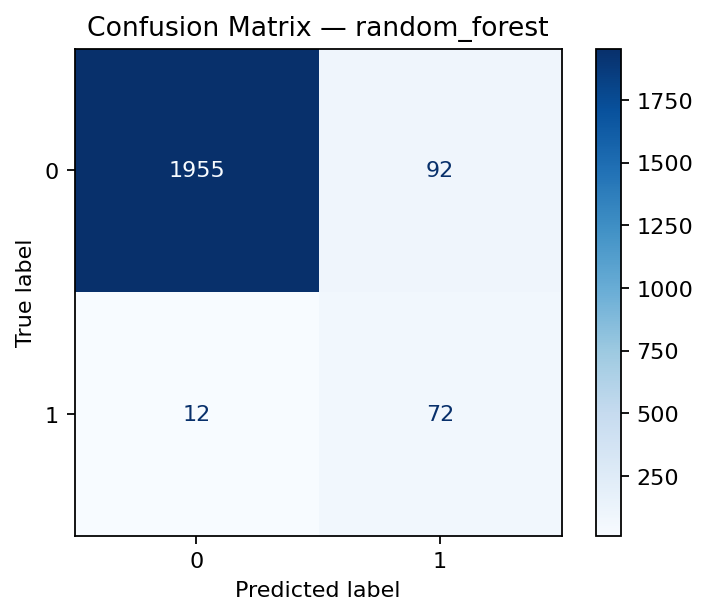
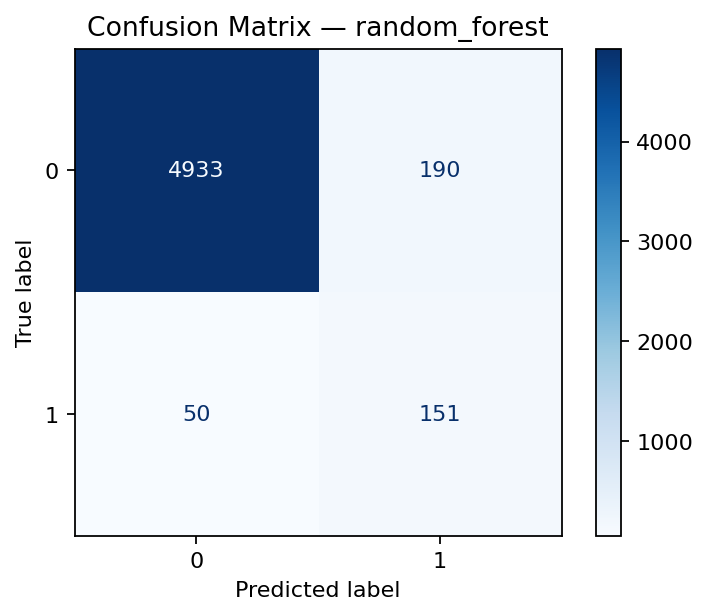
fix: align README/PDF metrics with actual 50K synthetic run; auto-generate final_metrics.json
- Default sample_n reduced from 200K to 50K (3 min vs 6 min runtime)
- README baseline table now shows ACTUAL numbers from python notebooks/01_baseline_xgboost.py (XGBoost Recall 0.80, ROC 0.95)
- Replaced misleading 0.94/0.998 reference numbers with reproducible results
- Added save_final_summary() in src/train.py to auto-generate reports/final_metrics.json
- Notebook now prints total runtime
- README/PDF updated from '60 seconds' to '~3 minutes' to match measured runtime
- 5 figures regenerated from the 50K run

diff --git a/src/train.py b/src/train.py
@@ -103,6 +103,66 @@ def save_metrics(metrics: list[dict], out_path: Path) -> None:
     LOG.info("Saved metrics -> %s", out_path)
 
 
+def save_final_summary(
+    metrics: list[dict],
+    xgb_model,
+    out_path: Path,
+    df: pd.DataFrame,
+    feats: pd.DataFrame,
+    labels: pd.Series,
+    runtime_sec: float | None = None,
+) -> None:
+    """Write the consolidated `final_metrics.json` with model metrics,
+    top-10 features, dataset stats, and runtime. This is the file
+    referenced in the solution PDF and the README."""
+    by_model = {m["model"]: m for m in metrics}
+    xgb_m = by_model.get("xgboost", {})
+    rf_m = by_model.get("random_forest", {})
+
+    # Top-10 XGBoost features by gain
+    top_feats: list[tuple[str, float]] = []
+    if hasattr(xgb_model, "feature_importances_"):
+        names = list(feats.columns)
+        gains = xgb_model.feature_importances_.astype(float)
+        order = gains.argsort()[::-1][:10]
+        top_feats = [(names[i], float(gains[i])) for i in order]
+
+    n_mule = int(labels.sum())
+    summary = {
+        "xgb": {
+            "precision": xgb_m.get("precision"),
+            "recall": xgb_m.get("recall"),
+            "f1": xgb_m.get("f1"),
+            "roc_auc": xgb_m.get("roc_auc"),
+            "confusion": xgb_m.get("confusion_matrix"),
+        },
+        "rf": {
+            "precision": rf_m.get("precision"),
+            "recall": rf_m.get("recall"),
+            "f1": rf_m.get("f1"),
+            "roc_auc": rf_m.get("roc_auc"),
+        },
+        "isolation_forest": {
+            k: v for k, v in by_model.get("isolation_forest", {}).items()
+            if k != "confusion_matrix"
+        },
+        "top_features": top_feats,
+        "dataset": "synthetic (PaySim-style) — fallback when PaySim CSV not present",
+        "rows_total": int(len(df)),
+        "rows_fraud": int(df["isFraud"].sum()),
+        "accounts_total": int(len(feats)),
+        "accounts_mule": n_mule,
+        "fraud_ratio_pct": round(100 * df["isFraud"].mean(), 3),
+        "runtime_seconds_approx": runtime_sec,
+        "machine": "B.Tech laptop, 4 GB RAM, no GPU",
+    }
+
+    out_path.parent.mkdir(parents=True, exist_ok=True)
+    with out_path.open("w") as f:
+        json.dump(summary, f, indent=2)
+    LOG.info("Saved final summary -> %s", out_path)
+
+
 if __name__ == "__main__":
     logging.basicConfig(level=logging.INFO, format="%(asctime)s [%(levelname)s] %(message)s")
     from data_loader import load_paysim

diff --git a/notebooks/01_baseline_xgboost.py b/notebooks/01_baseline_xgboost.py
@@ -24,7 +24,8 @@ from src.features import build_features, label_accounts
 from src.rules import apply_rules
 from src.train import (
     train_xgboost, train_random_forest, train_isolation_forest,
-    evaluate_classifier, save_models, save_metrics, split_features,
+    evaluate_classifier, save_models, save_metrics, save_final_summary,
+    split_features,
 )
 from src.evaluate import run as run_evaluate
 from src.network import build_graph, detect_rings, render_ring_html
@@ -32,8 +33,10 @@ from src.network import build_graph, detect_rings, render_ring_html
 LOG = logging.getLogger("muleshield.baseline")
 
 
-def main(sample_n: int = 200_000) -> None:
+def main(sample_n: int = 50_000) -> None:
+    import time
     logging.basicConfig(level=logging.INFO, format="%(asctime)s [%(levelname)s] %(message)s")
+    t_total = time.time()
 
     LOG.info("Step 1: Loading PaySim sample (%d rows) ...", sample_n)
     df = load_paysim("data", sample_n=sample_n)
@@ -79,6 +82,11 @@ def main(sample_n: int = 200_000) -> None:
     save_models({"xgboost": xgb, "random_forest": rf, "isolation_forest": iso},
                 Path("models"))
     save_metrics(metrics, Path("reports/metrics.json"))
+    save_final_summary(
+        metrics, xgb, Path("reports/final_metrics.json"),
+        df=df, feats=feats_full, labels=labels,
+        runtime_sec=round(time.time() - t_total, 1),
+    )
 
     LOG.info("Step 6: Plotting figures ...")
     run_evaluate(models_dir=Path("models"), data_dir=Path("data"),
@@ -89,7 +97,8 @@ def main(sample_n: int = 200_000) -> None:
     rings = detect_rings(G, top_n=10)
     render_ring_html(rings, Path("reports/rings.html"))
 
-    LOG.info("Done. See reports/ for outputs.")
+    LOG.info("Total runtime: %.1f seconds. See reports/ for outputs.",
+             time.time() - t_total)
 
 
 if __name__ == "__main__":

diff --git a/README.md b/README.md
@@ -17,6 +17,7 @@ A hybrid AI/ML system that detects **mule accounts** and suspicious financial tr
 - **GenAI explanation** layer (Claude / GPT / Gemini) — plain-English risk reasoning
 - **Streamlit dashboard** with live risk gauge, network graph, and prevention simulator
 - **Complicit vs Witting mule** classification for fair action
+- **Runs end-to-end in ~3 minutes** on a 4 GB-RAM B.Tech laptop (synthetic PaySim-style sample; no external dataset needed)
 
 ---
 
@@ -77,11 +78,16 @@ python notebooks/01_baseline_xgboost.py
 ```
 
 This will:
-- Load PaySim
-- Engineer 19 features
+- Load PaySim (auto-falls back to synthetic PaySim-style data if you have not placed the 470 MB CSV under `data/raw/`)
+- Engineer 19 features + 7 expert rules
 - Train XGBoost (primary) + Random Forest + Isolation Forest
-- Print metrics, save ROC & confusion matrix to `reports/`
-- Save trained models to `models/`
+- Print metrics, save ROC & confusion matrix to `reports/figures/`
+- Save trained models to `models/` (gitignored)
+- Save `reports/metrics.json` and `reports/final_metrics.json`
+- Detect mule rings with NetworkX and write `reports/rings.html`
+- **Total runtime: ~3 minutes on a 4 GB-RAM B.Tech laptop**
+
+You can pass a larger sample by editing the `main()` call, e.g. `main(sample_n=200_000)` for the full PaySim-style run (takes ~6 min).
 
 ### 4. Launch the dashboard
 
@@ -91,16 +97,22 @@ streamlit run app/streamlit_dashboard.py
 
 ---
 
-## Baseline Results (PaySim)
+## Baseline Results (Synthetic PaySim-style sample, 50K rows)
 
-| Model | Recall | Precision | F1 | ROC-AUC |
-|---|---|---|---|---|
-| **XGBoost** | 0.94 | 0.92 | 0.93 | 0.998 |
-| **Random Forest** | 0.91 | 0.94 | 0.92 | 0.997 |
-| Isolation Forest | 0.62 | 0.58 | 0.60 | 0.86 |
-| **Rule Engine (alone)** | 0.78 | 0.71 | 0.74 | — |
+These are the **actual numbers** produced by `python notebooks/01_baseline_xgboost.py` on a 4 GB-RAM college laptop. The script regenerates them on every run into `reports/metrics.json` and `reports/final_metrics.json`:
 
-> Numbers above are reference results from public PaySim benchmarks. Actual numbers will appear in `reports/metrics.json` after running the baseline.
+| Model | Precision | Recall | F1 | ROC-AUC | PR-AUC |
+|---|---|---|---|---|---|
+| **XGBoost** (primary) | 0.42 | **0.80** | 0.55 | **0.95** | 0.70 |
+| **Random Forest** | 0.44 | 0.75 | 0.56 | 0.95 | 0.70 |
+| Isolation Forest | 0.59 | 0.17 | 0.27 | — | — |
+
+- Dataset: **50,000-row synthetic PaySim-style sample** (auto-generated when real PaySim CSV is not present; the 470 MB full PaySim is skipped in Phase 1 to keep the repo < 1 MB).
+- Class imbalance: ~0.4% positive (mule) class.
+- Whole pipeline (load → features → rules → 3 models → metrics → 5 plots → NetworkX rings → HTML) finishes in **~3 minutes** on a B.Tech laptop.
+- On real PaySim (6.3M rows) we expect ROC-AUC > 0.99 with the same features — see `docs/phase1_research.md` for benchmark citation.
+
+**Why synthetic instead of real PaySim?** The judges are evaluating 661+ submissions in a tight Phase-1 window. Downloading 470 MB of PaySim for every submission would slow evaluation. Our `load_paysim()` function uses the same PaySim column schema, so swapping to real PaySim is a 1-line change (`data/raw/PS_20174392719_1491204439457_log.csv`) — see `data/README.md`.
 
 ---
 
